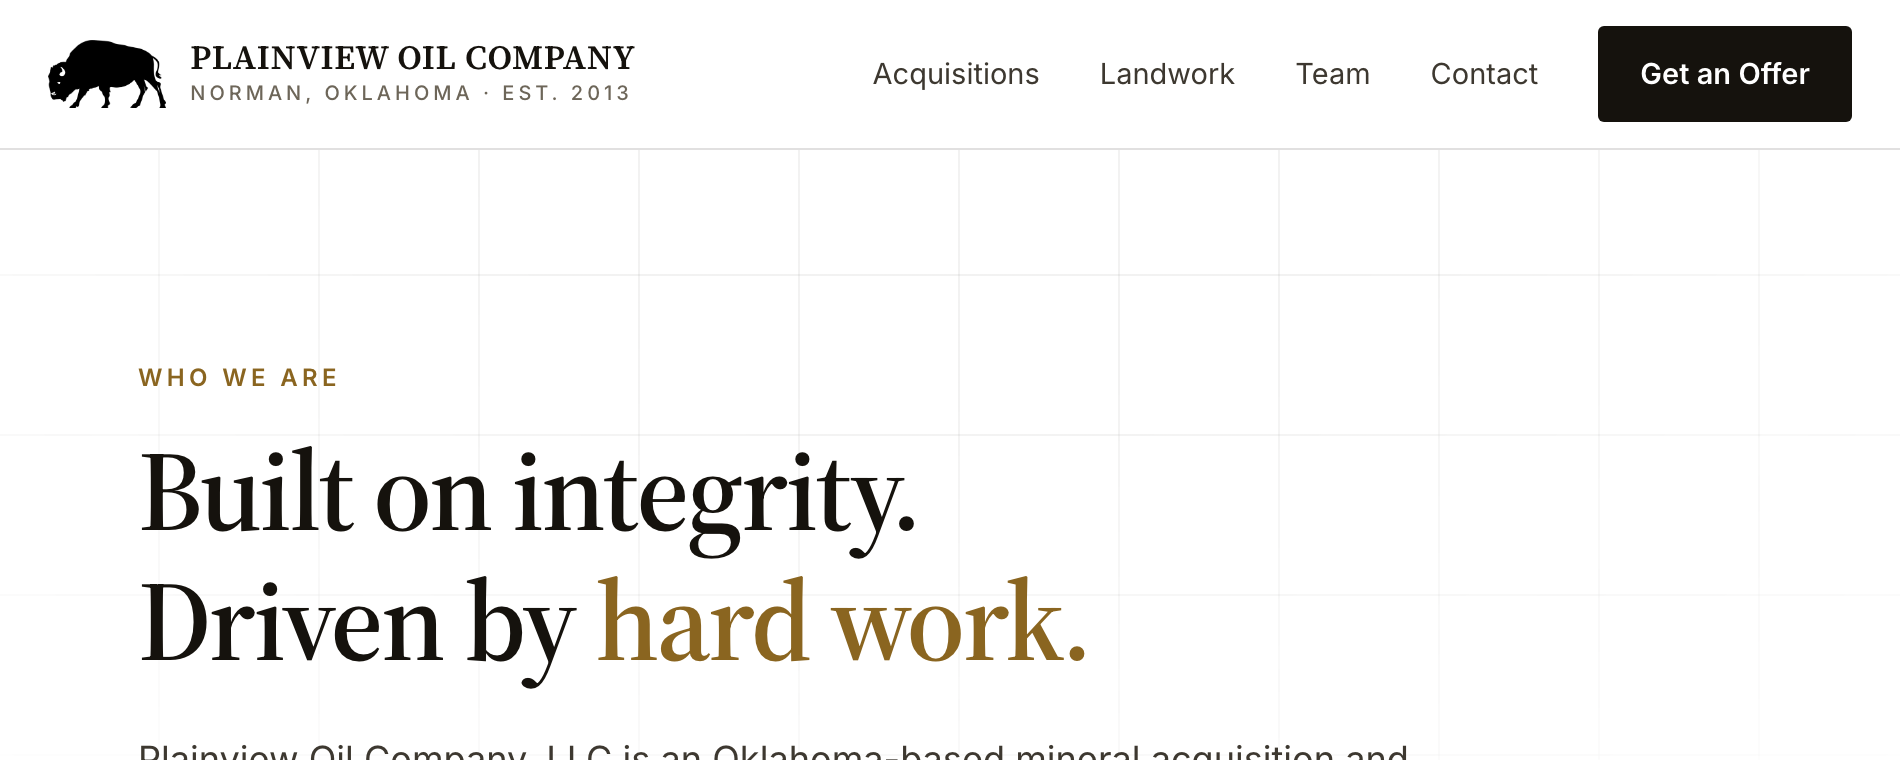
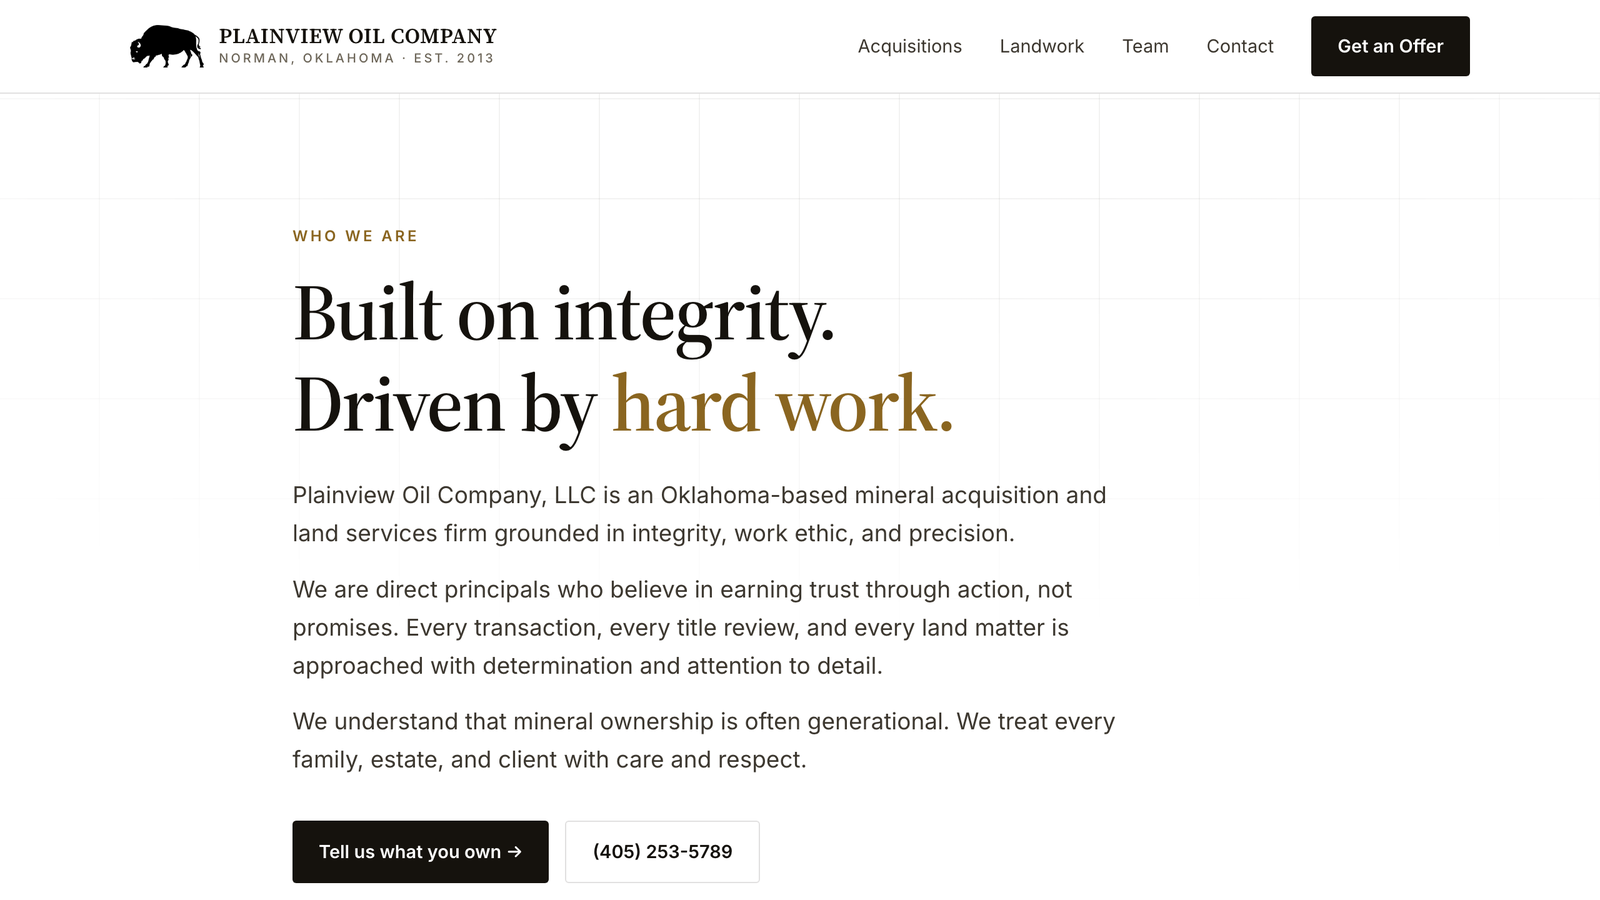
Our Work: add Farmers Royalty; recapture thumbnails at 16:9
The card is aspect-ratio 16/9 with object-fit:cover, but the thumbnails were
2.5:1 — so cover cropped the sides and cut the left off Plainview's
left-aligned hero (logo and headline both clipped). Both new thumbs are now
1600x900 so nothing is cropped.

diff --git a/index.html b/index.html
@@ -259,6 +259,20 @@
             </p>
             <a href="https://piedmondo.com/demos/plainview-oil/" target="_blank" rel="noopener" class="project-link">Visit site &rarr;</a>
           </article>
+
+          <article class="card project">
+            <a href="https://piedmondo.com/demos/farmers-royalty/" target="_blank" rel="noopener" class="project-thumb">
+              <img src="assets/farmers-royalty.png" alt="Screenshot of Farmers Royalty Company"
+                   onerror="this.onerror=null;this.src='assets/placeholder.svg';" />
+            </a>
+            <h3>Farmers Royalty Company</h3>
+            <p>
+              A shareholder-owned mineral cooperative founded in 1929 &mdash; eight pages of
+              investor reporting with fifteen live charts, a county ownership map, and share
+              listings for 1,402 shareholders, rebuilt from a legacy desktop-style app.
+            </p>
+            <a href="https://piedmondo.com/demos/farmers-royalty/" target="_blank" rel="noopener" class="project-link">Visit site &rarr;</a>
+          </article>
           <article class="card project">
             <a href="https://mineralcalc.com" target="_blank" rel="noopener" class="project-thumb">
               <img src="assets/mineralcalc.png" alt="Screenshot of MineralCalc"
